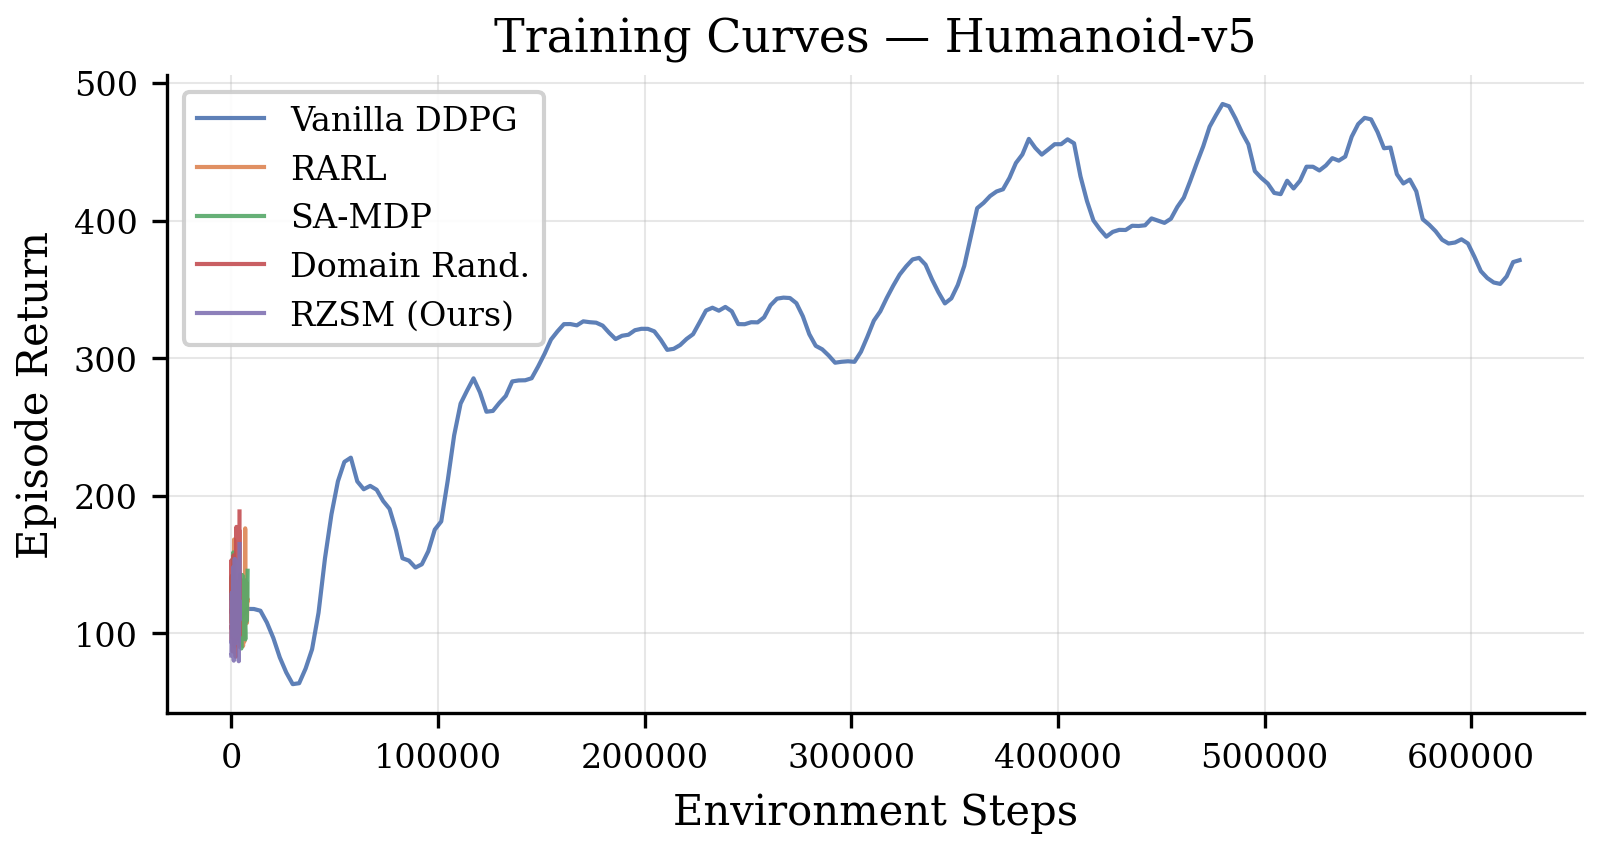
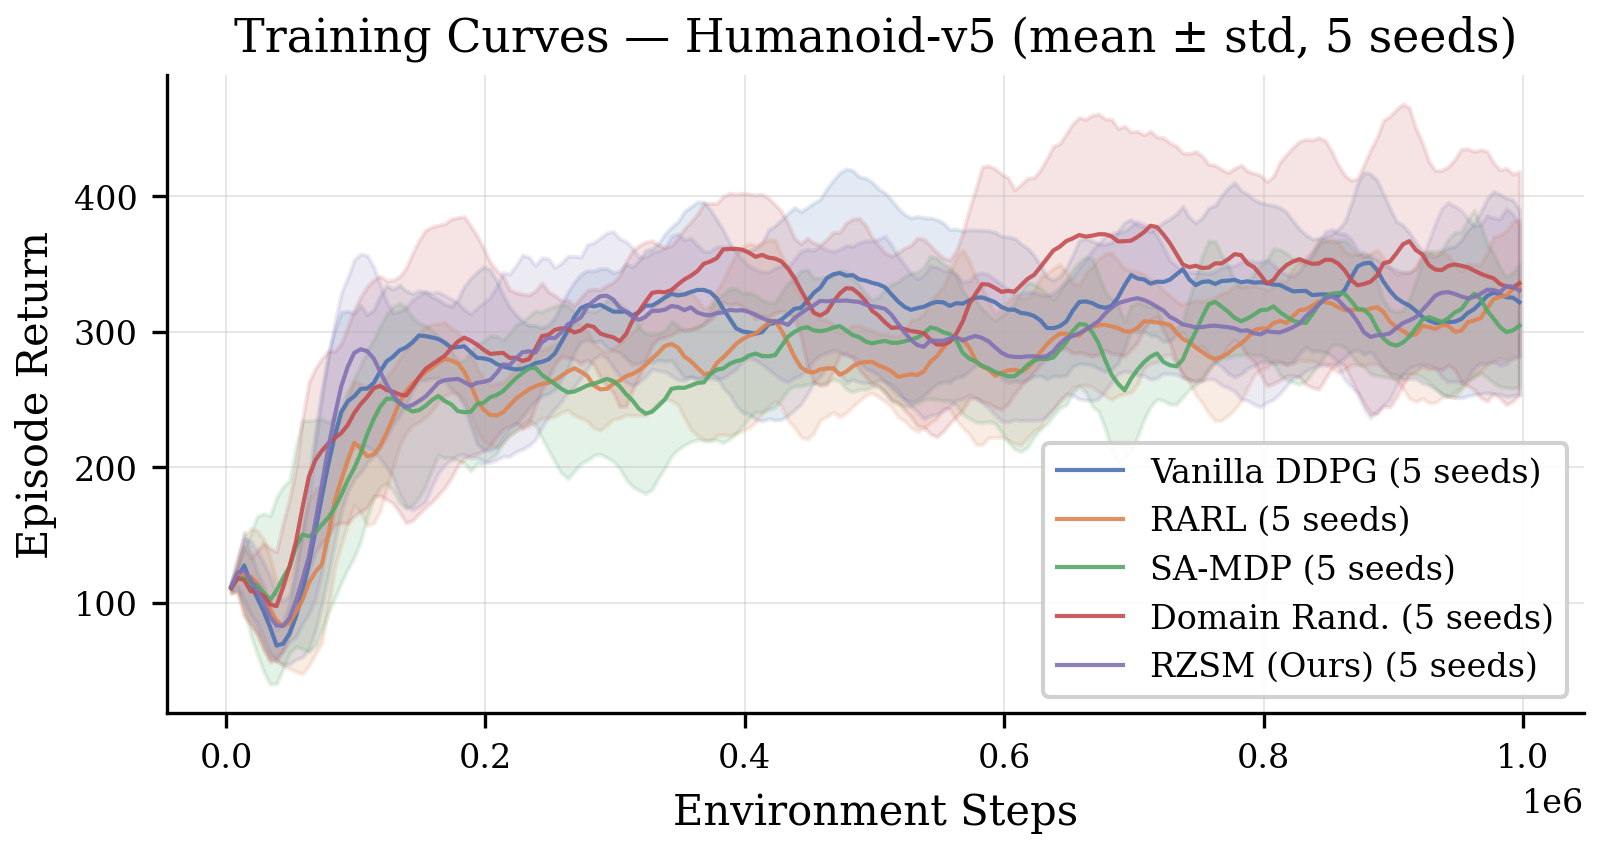
added humanoid results

diff --git a/src/agents/td3.py b/src/agents/td3.py
@@ -253,11 +253,14 @@ class TD3Agent:
             # Polyak update targets (only when policy is updated)
             with torch.no_grad():
                 for p, pt in zip(self.pi.parameters(), self.pi_targ.parameters()):
-                    pt.data.mul_(self.polyak).add_((1.0 - self.polyak) * p.data)
+                    pt.data.mul_(self.polyak).add_(
+                        (1.0 - self.polyak) * p.data)
                 for p, pt in zip(self.q1.parameters(), self.q1_targ.parameters()):
-                    pt.data.mul_(self.polyak).add_((1.0 - self.polyak) * p.data)
+                    pt.data.mul_(self.polyak).add_(
+                        (1.0 - self.polyak) * p.data)
                 for p, pt in zip(self.q2.parameters(), self.q2_targ.parameters()):
-                    pt.data.mul_(self.polyak).add_((1.0 - self.polyak) * p.data)
+                    pt.data.mul_(self.polyak).add_(
+                        (1.0 - self.polyak) * p.data)
 
         return metrics
 
@@ -676,12 +679,14 @@ class AdversarialTD3Agent:
             a2_ctrl = self.pi_rob_targ(o2)
             eps_ctrl = torch.randn_like(a2_ctrl) * self.target_noise
             eps_ctrl = eps_ctrl.clamp(-self.noise_clip, self.noise_clip)
-            a2_ctrl = (a2_ctrl + eps_ctrl).clamp(-self.act_limit, self.act_limit)
+            a2_ctrl = (a2_ctrl + eps_ctrl).clamp(-self.act_limit,
+                                                 self.act_limit)
 
             a2_dist = self.pi_adv_targ(o2)
             eps_dist = torch.randn_like(a2_dist) * self.target_noise
             eps_dist = eps_dist.clamp(-self.noise_clip, self.noise_clip)
-            a2_dist = (a2_dist + eps_dist).clamp(-self.dist_limit, self.dist_limit)
+            a2_dist = (a2_dist + eps_dist).clamp(-self.dist_limit,
+                                                 self.dist_limit)
 
             # Clipped double Q-learning
             q1_next = self.q1_targ(o2, a2_ctrl, a2_dist)
@@ -751,13 +756,17 @@ class AdversarialTD3Agent:
             # ---- polyak update targets (only when policy is updated) ----
             with torch.no_grad():
                 for p, pt in zip(self.pi_rob.parameters(), self.pi_rob_targ.parameters()):
-                    pt.data.mul_(self.polyak).add_((1.0 - self.polyak) * p.data)
+                    pt.data.mul_(self.polyak).add_(
+                        (1.0 - self.polyak) * p.data)
                 for p, pt in zip(self.pi_adv.parameters(), self.pi_adv_targ.parameters()):
-                    pt.data.mul_(self.polyak).add_((1.0 - self.polyak) * p.data)
+                    pt.data.mul_(self.polyak).add_(
+                        (1.0 - self.polyak) * p.data)
                 for p, pt in zip(self.q1.parameters(), self.q1_targ.parameters()):
-                    pt.data.mul_(self.polyak).add_((1.0 - self.polyak) * p.data)
+                    pt.data.mul_(self.polyak).add_(
+                        (1.0 - self.polyak) * p.data)
                 for p, pt in zip(self.q2.parameters(), self.q2_targ.parameters()):
-                    pt.data.mul_(self.polyak).add_((1.0 - self.polyak) * p.data)
+                    pt.data.mul_(self.polyak).add_(
+                        (1.0 - self.polyak) * p.data)
 
         return metrics
 
